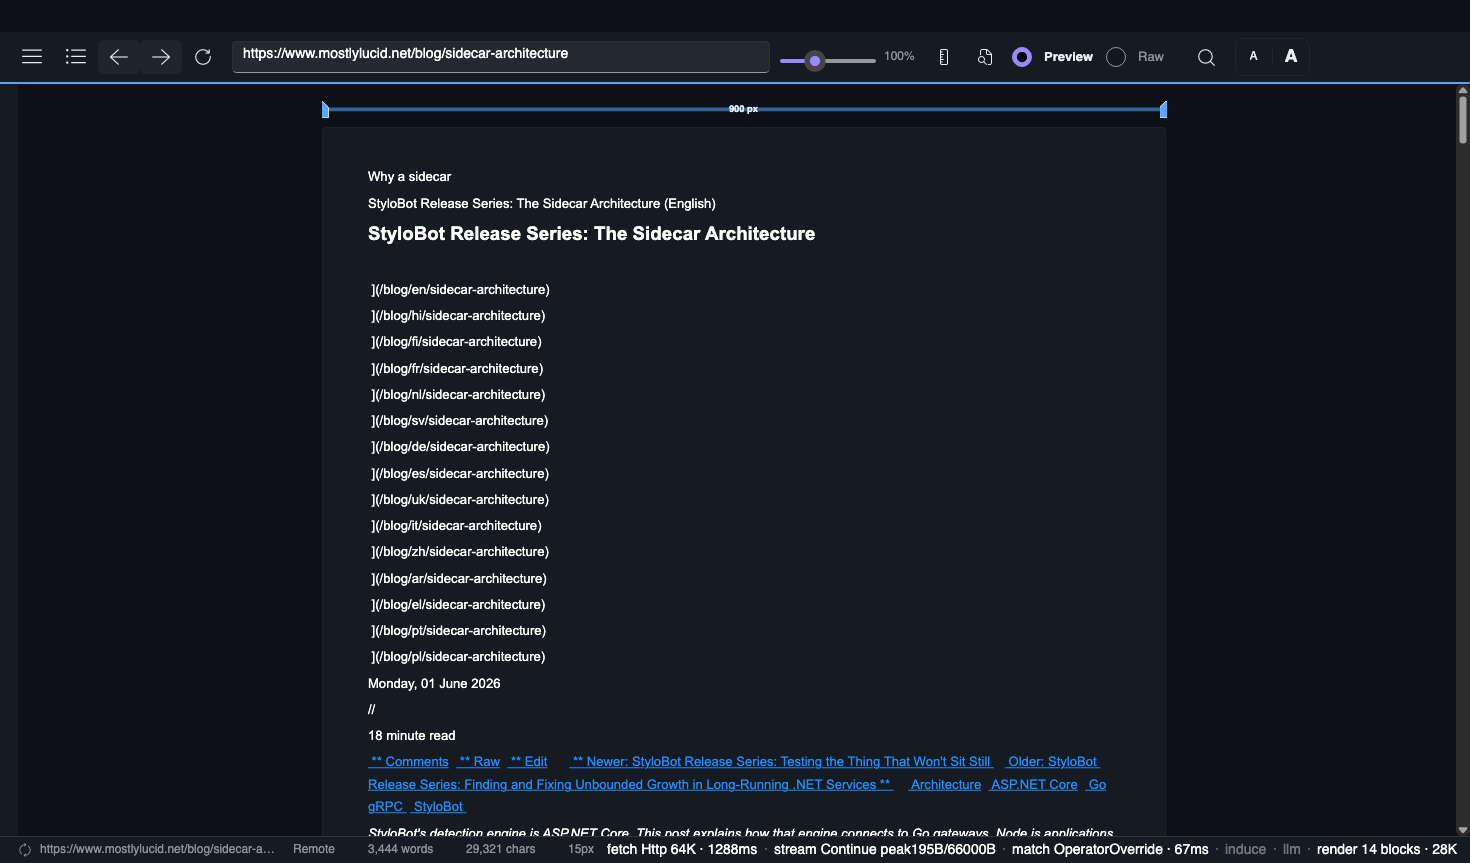
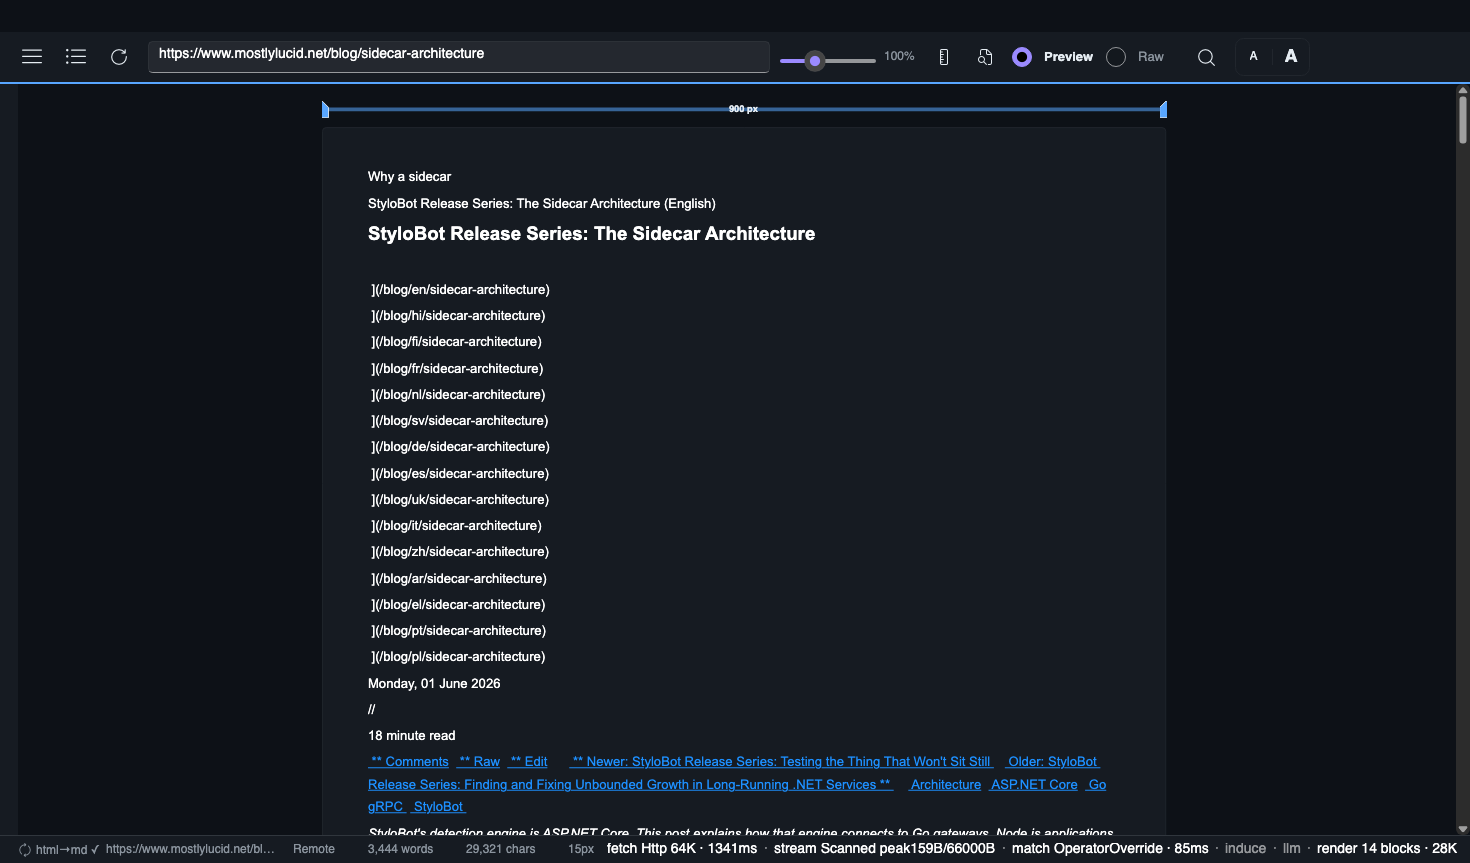
fix(ux): batch — 6 UX rough edges from the pre-release review
Status bar — readability + clarity:
- U6: Dim opacity bumped 0.4→0.55 (segments) and 0.3→0.45 (dot separators).
  Made the 'not yet fired' stages visibly readable on dark themes without
  competing with active stages.
- U8: Stream verdict 'Continue' at completion was misleading — relabelled
  to 'Scanned' because Continue technically means 'never reached terminal
  state', not 'still running'. Only the displayed label changes; the
  underlying ScanVerdict enum is untouched.

Status bar — affordances:
- U3: Added a SourceModeLabel TextBlock next to the SourceModeIcon. Shows
  one of: 'file' / 'markdown' / 'html→md' / 'spa'. Tooltip mirrors the
  icon. Solves the 'tiny unlabelled glyph' complaint — users can now read
  the source mode at a glance without hover-discover.
- U7: When the streaming template store has a template for the current
  host (verdict != NoTemplate, OR an induction just fired), append a ✓
  to the source-mode label. Persistent host-known signal beyond the
  transient stages flicker. DownloadWebPageAsync now returns a third
  tuple field (StreamingHostKnown) that LoadWebPage threads to
  MarkSourceModeHostKnown.

Status bar — responsive:
- U5: ApplyStatusBarResponsive hides low-priority columns as the window
  narrows. FontSizeText drops first (<1200px), FileDateText next
  (<1100px), FileInfoText (<1050px), WordCountText last (<950px). The
  stage indicator (which the user actually cares about) keeps its space.

Toolbar — declutter:
[…]

Changed region(s): [[0.398, 0.9641, 1.0, 0.9942], [0.0918, 0.0603, 0.3673, 0.0904], [0.0, 0.9641, 0.1837, 0.9942]]

diff --git a/MarkdownViewer/Views/MainWindow.FileOperations.cs b/MarkdownViewer/Views/MainWindow.FileOperations.cs
@@ -303,7 +303,7 @@ public partial class MainWindow
             if (!Uri.TryCreate(url, UriKind.Absolute, out var uri) || uri.Scheme is not ("http" or "https"))
                 throw new InvalidOperationException("Only http:// and https:// URLs are supported.");
 
-            var (body, isHtml) = await DownloadWebPageAsync(uri);
+            var (body, isHtml, streamingHostKnown) = await DownloadWebPageAsync(uri);
             string content;
             var mode = isHtml ? SourceMode.ConvertedFromHtml : SourceMode.DirectMarkdown;
 
@@ -352,6 +352,9 @@ public partial class MainWindow
 
             PushHistory(url, title);
             SetSourceMode(mode);
+#if FULL
+            if (streamingHostKnown) MarkSourceModeHostKnown();
+#endif
             QueueImageCaching(content);
         }
         catch (Exception ex) when (!IsIgnorableError(ex))
@@ -369,9 +372,15 @@ public partial class MainWindow
 
     private void UpdateNavigationButtonState()
     {
+        // Toolbar de-clutter (UX): keep buttons hidden until they have anything
+        // to do. Reload appears as soon as the first URL loads; Back/Forward
+        // only when history goes that direction.
         BackButton.IsEnabled = _sessionHistory.CanGoBack;
+        BackButton.IsVisible = _sessionHistory.CanGoBack;
         ForwardButton.IsEnabled = _sessionHistory.CanGoForward;
+        ForwardButton.IsVisible = _sessionHistory.CanGoForward;
         ReloadButton.IsEnabled = _sessionHistory.Current is not null;
+        ReloadButton.IsVisible = _sessionHistory.Current is not null;
 
         if (AddressBar is not null && _sessionHistory.Current is { } entry)
             AddressBar.Text = entry.Url;
@@ -594,7 +603,7 @@ public partial class MainWindow
         return $"\"{escaped}\"";
     }
 
-    private static async Task<(string Body, bool IsHtml)> DownloadWebPageAsync(Uri uri)
+    private static async Task<(string Body, bool IsHtml, bool StreamingHostKnown)> DownloadWebPageAsync(Uri uri)
     {
         using var request = new HttpRequestMessage(HttpMethod.Get, uri);
         request.Headers.UserAgent.ParseAdd(UserAgent.Value);
@@ -619,6 +628,8 @@ public partial class MainWindow
         var warmSelector = FullServices.Get<StyloExtract.Streaming.StreamingPathSelector>();
         _ = warmSelector.WarmByHostAsync(streamingHost).AsTask();
 #endif
+
+        bool streamingHostKnown = false;
 
         using var response = await RemoteMarkdownClient.SendAsync(request, HttpCompletionOption.ResponseHeadersRead);
         response.EnsureSuccessStatusCode();
@@ -660,6 +671,12 @@ public partial class MainWindow
             var verdict = lastVerdict;
             Console.WriteLine($"[streaming] scanned {bytes.Length} bytes from {uri.Host}: verdict={verdict}");
 
+            // Host is "known" whenever the scanner had a template to try at all
+            // — Captured (matched), Bailout (tried but drifted), or Continue
+            // (scanned without terminal state). NoTemplate means the host has
+            // never been seen, so the ✓ should not appear.
+            streamingHostKnown = verdict != StyloExtract.Streaming.ScanVerdict.NoTemplate;
+
             if (verdict == StyloExtract.Streaming.ScanVerdict.NoTemplate && isHtml)
             {
                 var inducer = FullServices.Get<StyloExtract.Streaming.StreamingTemplateInducer>();
@@ -669,6 +686,10 @@ public partial class MainWindow
                 {
                     var store = FullServices.Get<StyloExtract.Streaming.IStreamingTemplateStore>();
                     await store.UpsertAsync(induced, CancellationToken.None);
+                    // Just induced a template — the next visit will be Captured,
+                    // but for THIS fetch's marker we still want the ✓ so the user
+                    // sees the moment the host became known.
+                    streamingHostKnown = true;
                     Console.WriteLine(
                         $"[streaming] induced template for {streamingHost} " +
                         $"(prefix={summary?.PrefixMarker}, content={summary?.ContentStartMarker}, end={summary?.ContentEndMarker})");
@@ -694,9 +715,16 @@ public partial class MainWindow
             // byte buffer — under the alpha.19+ contract this stays O(longest tag)
             // regardless of response size, so a 200 KB response with peak ~8 KB is
             // the proof the streaming scan held bounded memory.
-            var streamDetail = peakBufferedBytes > 0
-                ? $"{verdict} peak{peakBufferedBytes}B/{bytes.Length}B"
+            // verdict == Continue at the end of a fetch means the scanner never
+            // hit a terminal state — either no template existed (about to induce
+            // one) or the body never matched. Relabel to avoid the misleading
+            // "Continue" reading.
+            var verdictLabel = verdict == StyloExtract.Streaming.ScanVerdict.Continue
+                ? "Scanned"
                 : verdict.ToString();
+            var streamDetail = peakBufferedBytes > 0
+                ? $"{verdictLabel} peak{peakBufferedBytes}B/{bytes.Length}B"
+                : verdictLabel;
             telemetry.EmitStage(
                 MarkdownViewer.Services.ExtractionStage.Stream,
                 started: false,
@@ -718,7 +746,7 @@ public partial class MainWindow
         }
 #endif
 
-        return (body, isHtml);
+        return (body, isHtml, streamingHostKnown);
     }
 
     private static async Task<byte[]> ReadBodyWithLimitAsync(HttpContent content, long maxBytes)
@@ -883,26 +911,49 @@ public partial class MainWindow
     private void SetSourceMode(SourceMode mode)
     {
         SourceModeIcon.IsVisible = true;
+        SourceModeLabel.IsVisible = true;
         switch (mode)
         {
             case SourceMode.LocalFile:
                 SourceModeIcon.Symbol = FluentIcons.Common.Symbol.Document;
+                SourceModeLabel.Text = "file";
                 ToolTip.SetTip(SourceModeIcon, "Local markdown file");
+                ToolTip.SetTip(SourceModeLabel, "Local markdown file");
                 break;
             case SourceMode.DirectMarkdown:
                 SourceModeIcon.Symbol = FluentIcons.Common.Symbol.Globe;
+                SourceModeLabel.Text = "markdown";
                 ToolTip.SetTip(SourceModeIcon, "Direct markdown from URL (no conversion)");
+                ToolTip.SetTip(SourceModeLabel, "Direct markdown from URL (no conversion)");
                 break;
             case SourceMode.ConvertedFromHtml:
                 SourceModeIcon.Symbol = FluentIcons.Common.Symbol.ArrowSync;
+                SourceModeLabel.Text = "html→md";
                 ToolTip.SetTip(SourceModeIcon, "Converted from HTML via StyloExtract");
+                ToolTip.SetTip(SourceModeLabel, "Converted from HTML via StyloExtract");
                 break;
             case SourceMode.ClientSideRendered:
                 SourceModeIcon.Symbol = FluentIcons.Common.Symbol.Warning;
+                SourceModeLabel.Text = "spa";
                 ToolTip.SetTip(SourceModeIcon, "Client-side rendered — JavaScript required, lucidVIEW can't run it");
+                ToolTip.SetTip(SourceModeLabel, "Client-side rendered — JavaScript required, lucidVIEW can't run it");
                 break;
         }
     }
+
+#if FULL
+    /// <summary>
+    /// Mark the source-mode label with a ✓ when the streaming template store
+    /// already has a learned host template — gives the user a persistent
+    /// "this host is known" signal beyond the transient stages flicker.
+    /// </summary>
+    private void MarkSourceModeHostKnown()
+    {
+        var current = SourceModeLabel.Text ?? "";
+        if (!current.EndsWith(" ✓", StringComparison.Ordinal))
+            SourceModeLabel.Text = current + " ✓";
+    }
+#endif
 
     private void QueueImageCaching(string content)
     {

diff --git a/MarkdownViewer/Views/MainWindow.axaml.cs b/MarkdownViewer/Views/MainWindow.axaml.cs
@@ -128,7 +128,12 @@ public partial class MainWindow : Window
         Closing += OnWindowClosing;
         // Re-clamp the column width when the window is resized so shrinking
         // the window doesn't push the right ruler handle off-screen.
-        SizeChanged += (_, _) => ApplyContentMaxWidth();
+        SizeChanged += (_, _) =>
+        {
+            ApplyContentMaxWidth();
+            ApplyStatusBarResponsive();
+        };
+        ApplyStatusBarResponsive();
 
         // Accepts a positional arg:
         //   lucidVIEW path/to/document.md → LoadFile
@@ -1385,6 +1390,28 @@ public partial class MainWindow : Window
 
     private void OnExtractionStatusClicked(object? sender, Avalonia.Input.PointerPressedEventArgs e)
         => ShowExtractionDetails();
+#endif
+
+    /// <summary>
+    /// Hide low-priority status-bar columns as the window narrows so the
+    /// pipeline-stage indicator (column 7) keeps room and doesn't truncate.
+    /// Thresholds were chosen so a 1366×768 laptop comfortably shows everything
+    /// and a 900-wide window still shows the essentials.
+    /// </summary>
+    private void ApplyStatusBarResponsive()
+    {
+        var w = Bounds.Width;
+        // FontSizeText is the first to drop — least useful at a glance.
+        FontSizeText.IsVisible = w >= 1200;
+        // FileInfoText (chars / image count) — useful but expendable.
+        FileInfoText.IsVisible = w >= 1050;
+        // WordCountText — keep until really narrow.
+        WordCountText.IsVisible = w >= 950;
+        // FileDateText — same threshold; date is one of the first ditched.
+        FileDateText.IsVisible = w >= 1100;
+    }
+
+#if FULL
 
     /// <summary>
     /// `--shot URL OUTPUT.png` flow: load the URL via the existing LoadWebPage

diff --git a/MarkdownViewer/Assets/manual/user-manual.md b/MarkdownViewer/Assets/manual/user-manual.md
@@ -337,14 +337,21 @@ paired with an HTML-shaped body.
 
 ### 20.4 Source mode indicator
 
-In FULL, the status bar's first column shows the source mode icon — a tiny
-glyph that tells you how the current document got here:
+The status bar's first column shows the source mode icon plus a short label
+that tells you how the current document got here:
 
-- **Direct markdown** — the URL returned `text/markdown` (no conversion needed)
-- **Converted from HTML** — the URL returned HTML and StyloExtract converted it
-- **Client-side rendered** — the URL looked like an SPA shell with no static content; conversion is impossible
+| Label | Icon | Meaning |
+|---|---|---|
+| `file` | document | Local markdown file you opened or dropped |
+| `markdown` | globe | The URL returned `text/markdown` (no conversion needed) |
+| `html→md` | sync arrows | The URL returned HTML and StyloExtract converted it |
+| `spa` | warning | Looked like an SPA shell with no static content — conversion impossible |
 
-Hover the icon for a tooltip with the same labels.
+When the label is followed by a **`✓`** (e.g. `html→md ✓`), the streaming
+template store already has a learned template for the current host — meaning
+the next visit will skip-path on the streaming scanner. The marker persists
+for the whole document so you can tell at a glance "I've taught lucidVIEW
+about this host."
 
 ### 20.5 CLI verbs (FULL only)
 

diff --git a/docs/full-edition.md b/docs/full-edition.md
@@ -339,4 +339,4 @@ Anything that violates these is a defect, not a feature.
 - `MarkdownViewer/Views/MainWindow.FileOperations.cs` — `DownloadWebPageAsync` with the `#if FULL` chunked-feed integration (`ReadBodyWithLimitAndScanAsync`).
 - `MarkdownViewer.Full/Program.cs` — CLI verb parsing + `--shot` AutoShot state.
 - `docs/streaming.md` in the `stylobot-extract` repo — streaming-mode reference (verdicts, sliding-window mechanics).
-- `.superpowers/sdd/alpha19-streaming-report.md` — alpha.21 smoke metrics this guide cites.
+- `.superpowers/sdd/alpha19-streaming-report.md` — alpha.19 smoke metrics this guide originally cited (historical). The alpha.21 streaming work (Bloom early-reject + structural drift bailout) further reduces peak-buffered memory on real pages; see the lucidVIEW user-manual §20.2 for the alpha.21 headline numbers captured on mostlylucid.net.